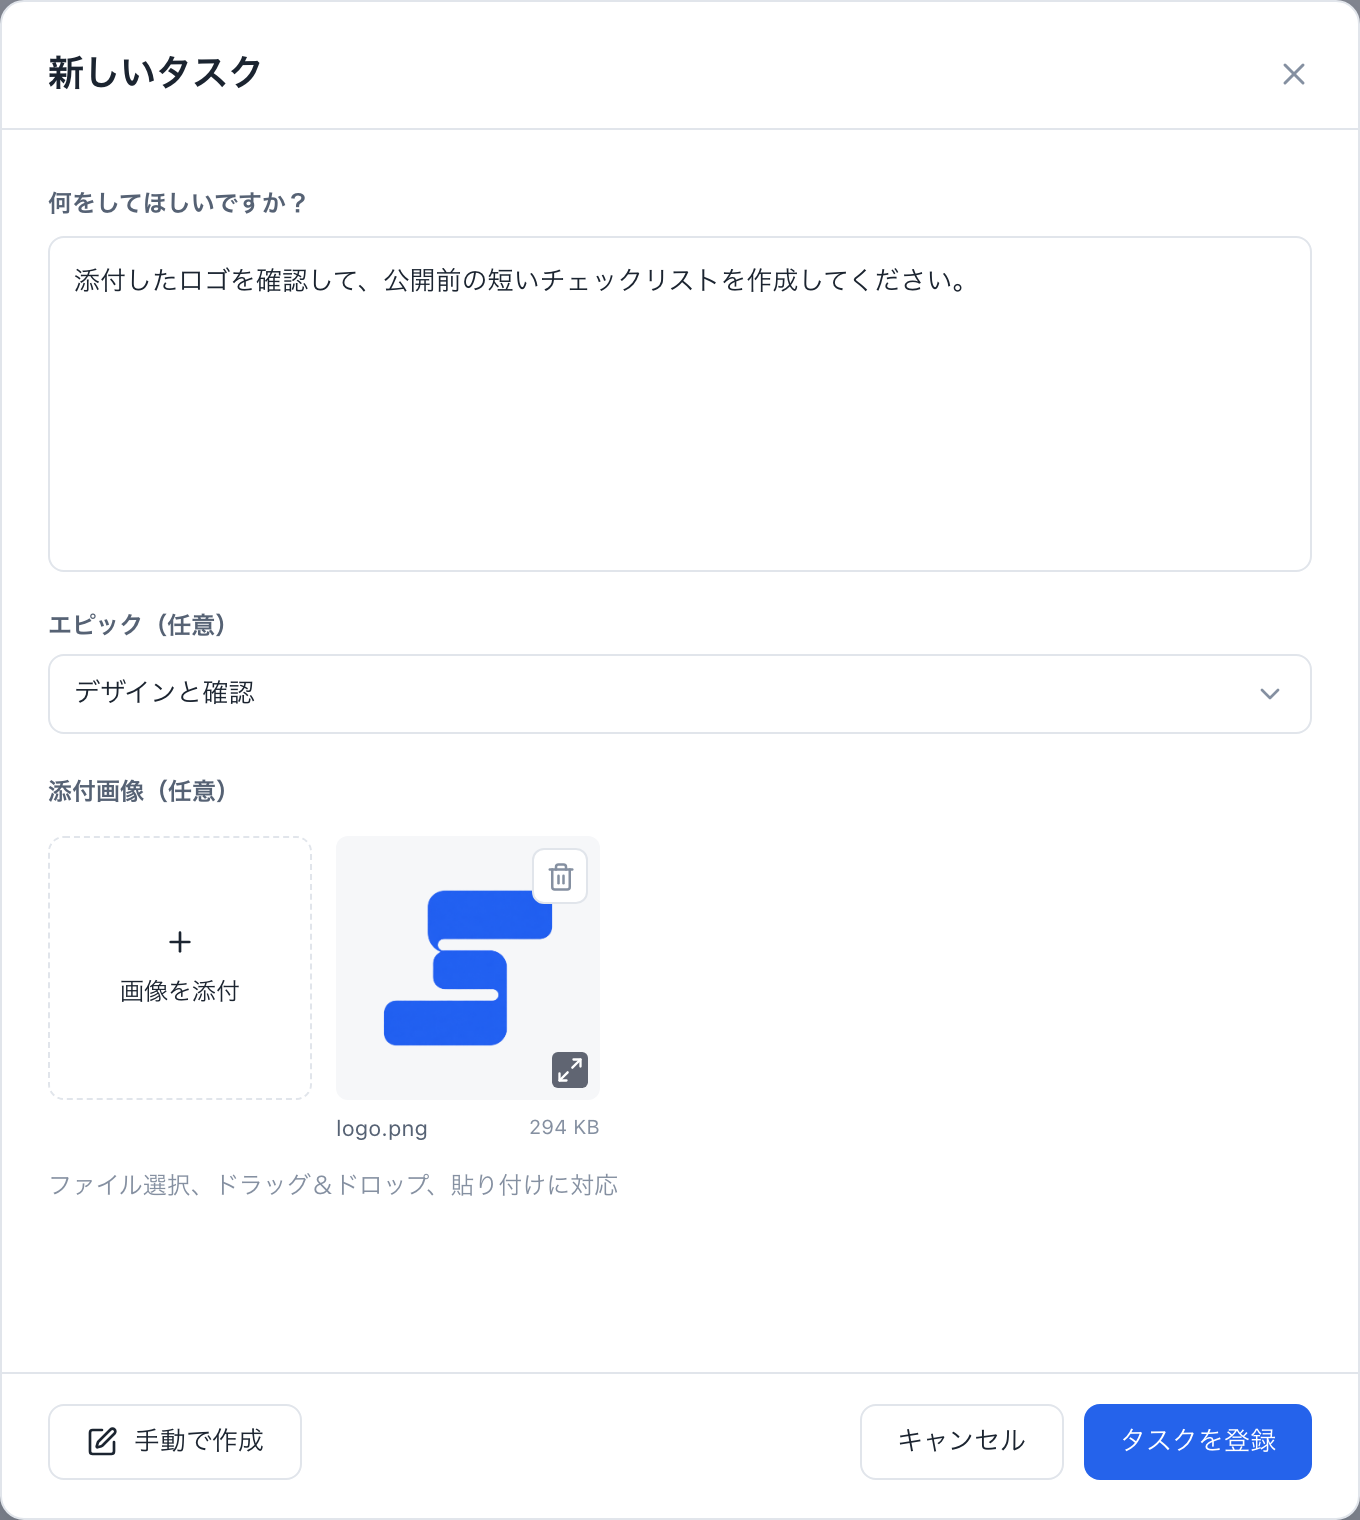
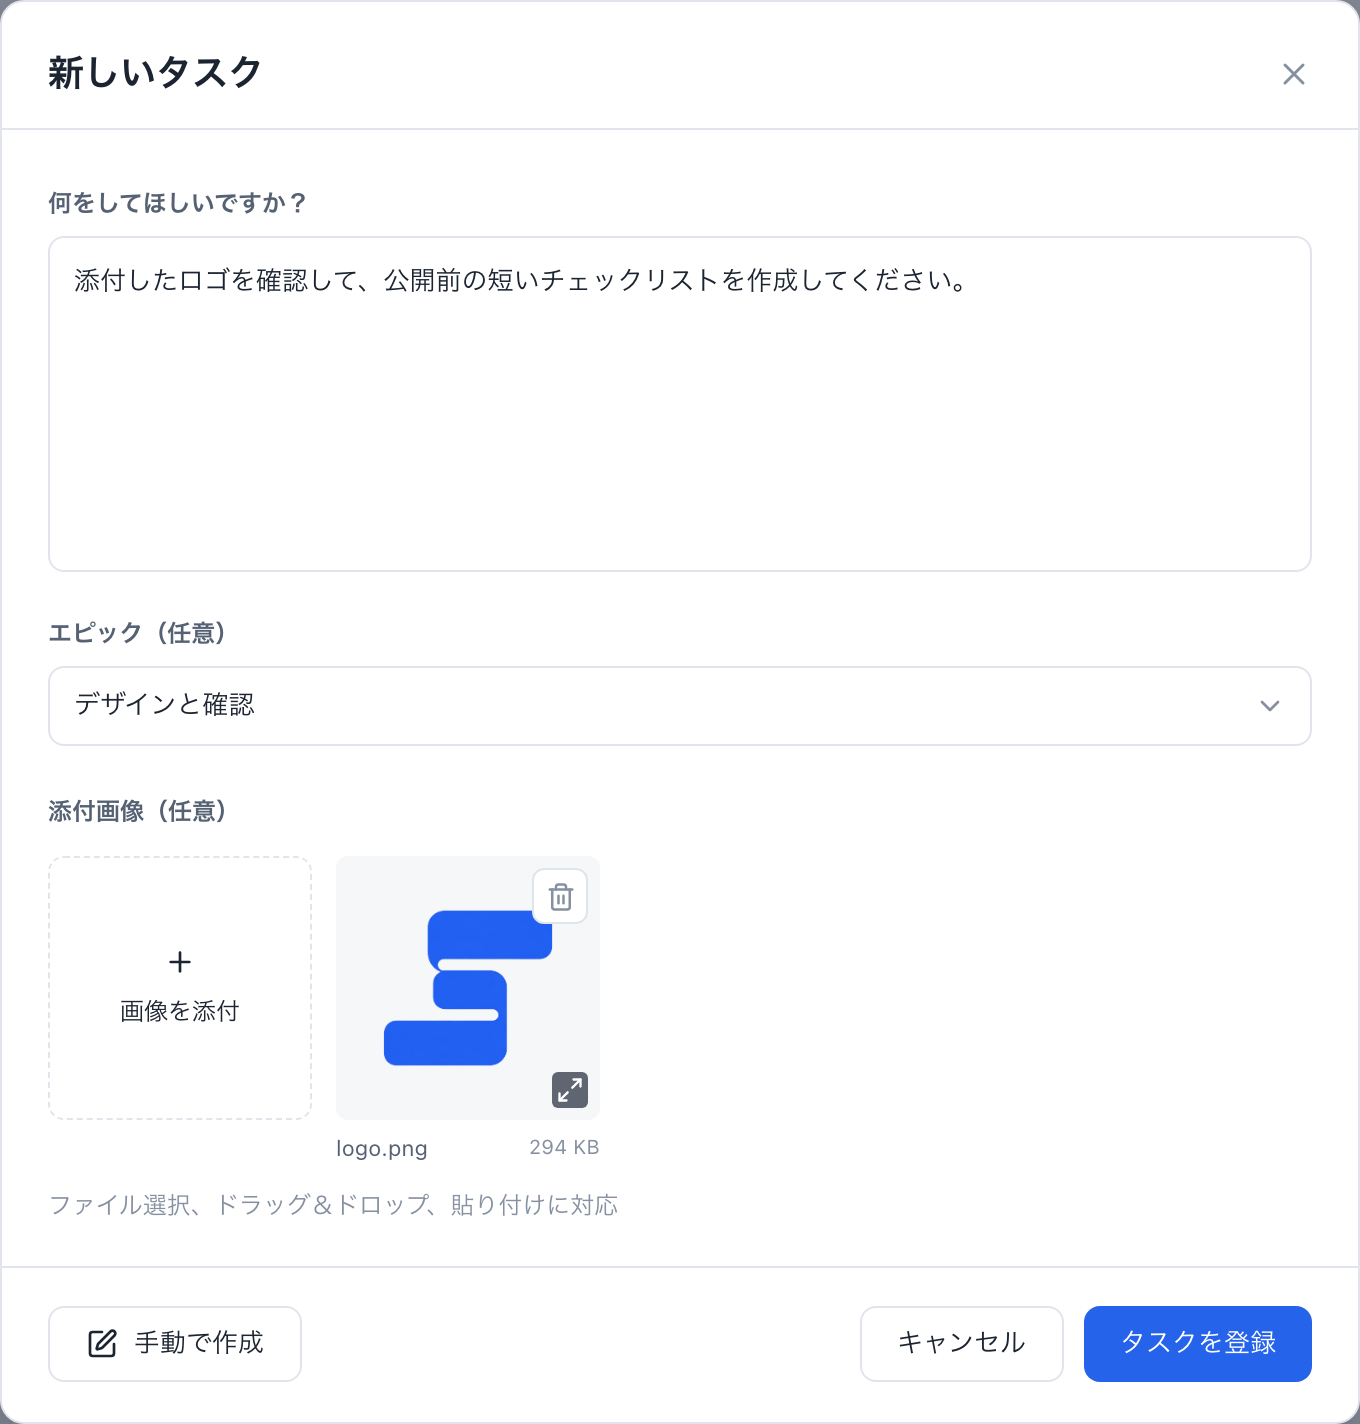
fix: align request attachments and trim empty space

diff --git a/web/src/styles/modal.css b/web/src/styles/modal.css
@@ -217,7 +217,7 @@
   bottom: auto;
   translate: -50% 0;
   max-height: calc(100dvh - min(100px, 8dvh) - 16px);
-  height: 760px;
+  height: auto;
   gap: 28px;
   overflow: hidden;
   padding: 23px;
@@ -331,7 +331,7 @@
 }
 
 .request-dialog__attachments .editor-attachments__header {
-  margin-bottom: -6px;
+  margin-bottom: 0;
 }
 
 .request-dialog__attachments .editor-attachments__add {
@@ -364,6 +364,8 @@
   align-items: flex-start;
   gap: 12px;
   min-width: 0;
+  /* Reserve the filename row before the first image is attached. */
+  min-height: 152px;
 }
 
 .request-dialog__attachments .editor-attachments__add-tile {
@@ -400,51 +402,18 @@
   height: 132px;
 }
 
-.request-dialog.has-attachments .request-dialog__epic {
-  gap: 6px;
-}
-
-.request-dialog.has-attachments .request-dialog__attachments {
-  margin-bottom: 2px;
-}
-
-.request-dialog.has-attachments .request-dialog__request + .request-dialog__epic {
-  margin-top: -4px;
-}
-
-.request-dialog.has-attachments .request-dialog__epic + .request-dialog__attachments {
-  margin-top: -2px;
-}
-
-.request-dialog.has-attachments .editor-attachments__header {
-  margin-bottom: 0;
-}
-
-.request-dialog.has-attachments .editor-attachments__add {
-  height: 33px;
-}
-
-.request-dialog.has-attachments .editor-attachments__meta {
+.request-dialog__attachments .editor-attachments__meta {
   height: 13px;
   line-height: 13px;
 }
 
-.request-dialog.has-attachments .editor-attachments__name,
-.request-dialog.has-attachments .editor-attachments__size {
+.request-dialog__attachments .editor-attachments__name,
+.request-dialog__attachments .editor-attachments__size {
   line-height: 13px;
 }
 
-.request-dialog.has-attachments .editor-attachments__actions:empty {
+.request-dialog__attachments .editor-attachments__actions:empty {
   display: none;
-}
-
-.request-dialog.has-attachments .editor-attachments__dropzone {
-  min-height: 39px;
-}
-
-.request-dialog.has-attachments .editor-attachments__drop {
-  min-height: 37px;
-  padding-block: 11px;
 }
 
 .request-dialog .modal__footer {
@@ -478,15 +447,6 @@
 
   .request-dialog .modal__actions {
     align-self: flex-end;
-    margin-top: 0;
-  }
-
-  .request-dialog.has-attachments .modal__footer {
-    padding-top: 15px;
-    padding-bottom: 19px;
-  }
-
-  .request-dialog.has-attachments .modal__actions {
     margin-top: 0;
   }
 
@@ -538,8 +498,8 @@
     gap: 13px;
   }
 
-  .request-dialog__attachments .editor-attachments__header {
-    margin-bottom: -2.5px;
+  .request-dialog__attachments .editor-attachments__tray {
+    min-height: 124px;
   }
 
   .request-dialog__attachments .editor-attachments__dropzone,

diff --git a/e2e/tests/request-attachments.spec.ts b/e2e/tests/request-attachments.spec.ts
@@ -65,7 +65,8 @@ test('request attachment headings use the same typography as the other field lab
 });
 
 test('the image picker stays square at the left without resizing the request dialog', async ({ page }, testInfo) => {
-  for (const mode of ['light', 'dark']) {
+  for (const { mode, width } of [{ mode: 'light', width: 1280 }, { mode: 'dark', width: 1280 }, { mode: 'light', width: 390 }, { mode: 'dark', width: 390 }]) {
+    await page.setViewportSize({ width, height: 1100 });
     await page.evaluate((value) => localStorage.setItem('agboard.theme', JSON.stringify({ mode: value, accent: 'blue' })), mode);
     await page.reload();
     await waitForSync(page);
@@ -80,6 +81,7 @@ test('the image picker stays square at the left without resizing the request dia
     await dialog.screenshot({ path: testInfo.outputPath(`request-empty-focus-${mode}.png`) });
     await textarea.fill('Stable image tray');
     const add = dialog.getByRole('button', { name: 'Add image attachment', exact: true });
+    const emptyPicker = await add.boundingBox();
     const chooserPromise = page.waitForEvent('filechooser');
     await add.click();
     const chooser = await chooserPromise;
@@ -90,6 +92,19 @@ test('the image picker stays square at the left without resizing the request dia
     const size = await add.boundingBox();
     if (size === null) throw new Error('The image picker did not render.');
     expect(size.width).toBe(size.height);
+    if (!emptyPicker) throw new Error('The empty image picker did not render.');
+    expect(size.y).toBeCloseTo(emptyPicker.y, 1);
+    const preview = await dialog.locator('.editor-attachments__preview').first().boundingBox();
+    if (!preview) throw new Error('The image preview did not render.');
+    expect(preview.y).toBeCloseTo(size.y, 1);
+    expect(preview.width).toBeCloseTo(size.width, 1);
+    expect(preview.height).toBeCloseTo(size.height, 1);
+    const unusedSpace = await dialog.locator('.modal__body').evaluate((body) => {
+      const hint = body.querySelector('.editor-attachments__hint');
+      if (!hint) throw new Error('The attachment hint did not render.');
+      return body.getBoundingClientRect().bottom - hint.getBoundingClientRect().bottom;
+    });
+    expect(unusedSpace).toBeLessThan(24);
     await dialog.locator('.editor-attachments__list').evaluate((list) => { list.scrollLeft = list.scrollWidth; });
     await expect(add).toBeInViewport();
     const left = await add.evaluate((button) => button.getBoundingClientRect().left - (button.parentElement?.getBoundingClientRect().left ?? 0));

diff --git a/web/src/components/RequestDialog.tsx b/web/src/components/RequestDialog.tsx
@@ -100,7 +100,7 @@ export function RequestDialog({
       save={submit}
       dirty={dirty}
       scrollBody
-      className={`request-dialog${attachmentsState.attachments.length > 0 ? ' has-attachments' : ''}`}
+      className="request-dialog"
       errorInFooter
       submitDisabled={!valid}
       secondaryAction={{

diff --git a/docs/guide/use/editing.md b/docs/guide/use/editing.md
@@ -29,7 +29,7 @@ If an AI session is listening, it can pick up this task along with tasks already
 
 The request and its optional epic and images are saved together. If saving fails, the form keeps your text and selected images so you can retry. Images are optional and use the same PNG, JPEG, WebP, and GIF limits as other task attachments.
 
-Use the square **Add image attachment** tile at the left of the image row to select files. The tile remains at the left while you scroll through the square image previews. You can also paste an image into the request text field or drop it into the attachment area. On shorter screens, the fields scroll while **Cancel** and **Submit task** remain visible.
+Use the square **Add image attachment** tile at the left of the image row to select files. The tile and square previews share the same top edge, and adding images keeps the row in place. The tile remains at the left while you scroll through the previews. The form fits its content without leaving a large blank area below the attachments. You can also paste an image into the request text field or drop it into the attachment area. On shorter screens, the fields scroll while **Cancel** and **Submit task** remain visible.
 
 ## Add images
 
